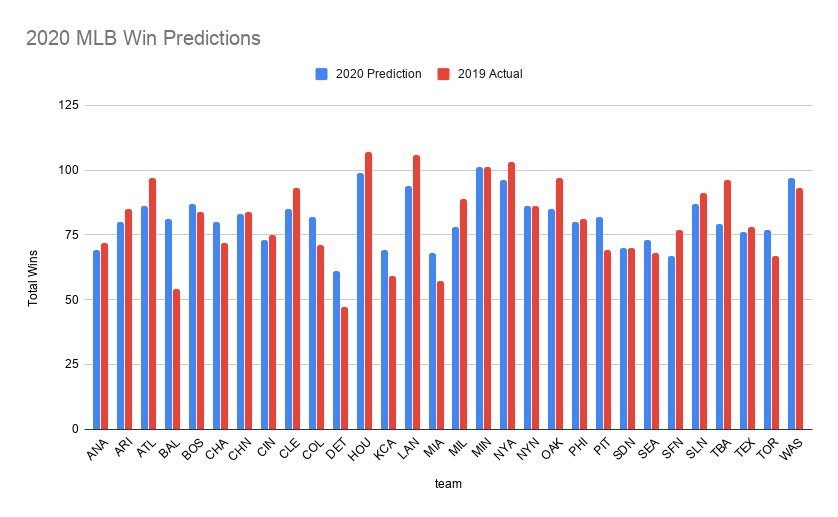
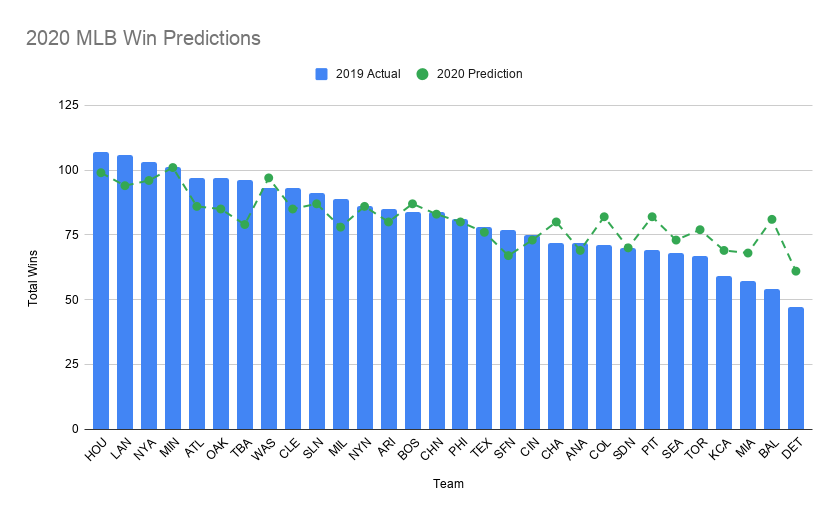
updated charts

diff --git a/README.md b/README.md
@@ -5,8 +5,6 @@ Quick and easy MLB team standings simulations. All you have to do is clone this 
 ## 2020 Predictions
 ![alt text](https://raw.githubusercontent.com/meirelon/baseball-season-simulation/master/imgs/predictions_2020.png)
 
-![alt text](https://raw.githubusercontent.com/meirelon/baseball-season-simulation/master/imgs/predictions_2020_scatter.png)
-
 ## 2019 Results
 
 ![alt text](https://raw.githubusercontent.com/meirelon/baseball-season-simulation/master/imgs/results_2019.png)
